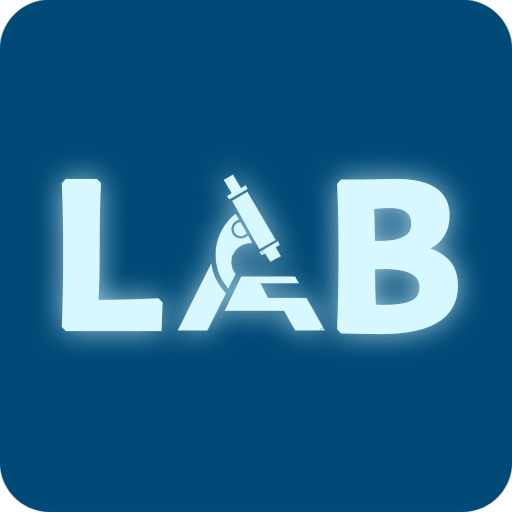
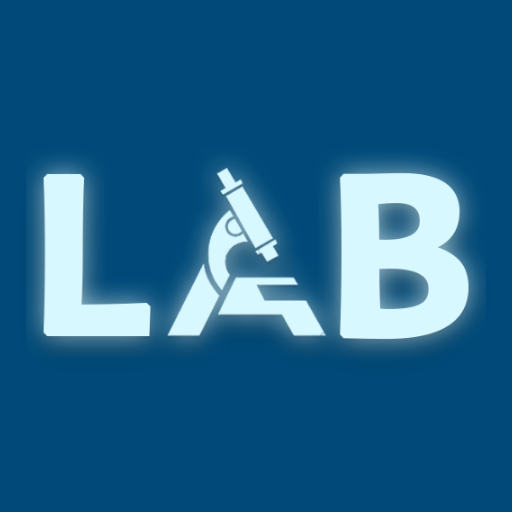
1.0.0v

diff --git a/settings.html b/settings.html
@@ -40,6 +40,17 @@ limitations under the License.
             transition: background-color 0.3s, color 0.3s;
         }
 
+        a:active,
+        a:focus,
+        a:hover {
+            -webkit-tap-highlight-color: transparent;
+            outline: none;
+            -webkit-user-select: none;
+            -moz-user-select: none;
+            -ms-user-select: none;
+            user-select: none;
+        }
+
         .container {
             max-width: 600px;
             margin: auto;
@@ -76,6 +87,17 @@ limitations under the License.
             margin-bottom: 100px;
         }
 
+        a:active,
+        a:focus,
+        a:hover {
+            -webkit-tap-highlight-color: transparent;
+            outline: none;
+            -webkit-user-select: none;
+            -moz-user-select: none;
+            -ms-user-select: none;
+            user-select: none;
+        }
+
         .setting-item {
             margin: 20px 0;
             font-family: 'GraphikArabic', sans-serif;
@@ -98,7 +120,7 @@ limitations under the License.
             background-color: #055be6;
             border: 2px solid #0043af;
             border-radius: 7px;
-            margin-bottom: 560px;
+            margin-bottom: 610px;
         }
 
         select option {
@@ -112,6 +134,7 @@ limitations under the License.
             display: inline-block;
             width: 60px;
             height: 34px;
+            top: -18px;
         }
 
         .switch input {
@@ -269,15 +292,15 @@ limitations under the License.
                 .catch(err => console.error("خطا در ثبت Service Worker:", err));
         }
 
-document.getElementById('language-select').addEventListener('change', function () {
-    var selectedValue = this.value;
-    localStorage.setItem('language', selectedValue); // ذخیره زبان انتخابی
-    if (selectedValue === 'en') {
-        window.location.href = 'settings'; 
-    } else if (selectedValue === 'fa') {
-        window.location.href = './Fa/settings'; 
-    }
-});
+        document.getElementById('language-select').addEventListener('change', function () {
+            var selectedValue = this.value;
+            localStorage.setItem('language', selectedValue); // ذخیره زبان انتخابی
+            if (selectedValue === 'en') {
+                window.location.href = 'settings';
+            } else if (selectedValue === 'fa') {
+                window.location.href = './Fa/settings';
+            }
+        });
     </script>
 </body>
 

diff --git a/Fa/settings.html b/Fa/settings.html
@@ -40,6 +40,17 @@ limitations under the License.
             transition: background-color 0.3s, color 0.3s;
         }
 
+        a:active,
+        a:focus,
+        a:hover {
+            -webkit-tap-highlight-color: transparent;
+            outline: none;
+            -webkit-user-select: none;
+            -moz-user-select: none;
+            -ms-user-select: none;
+            user-select: none;
+        }
+
         .container {
             max-width: 600px;
             margin: auto;
@@ -76,6 +87,17 @@ limitations under the License.
             margin-bottom: 100px;
         }
 
+        a:active,
+        a:focus,
+        a:hover {
+            -webkit-tap-highlight-color: transparent;
+            outline: none;
+            -webkit-user-select: none;
+            -moz-user-select: none;
+            -ms-user-select: none;
+            user-select: none;
+        }
+
         .setting-item {
             margin: 20px 0;
             font-family: 'GraphikArabic', sans-serif;
@@ -98,7 +120,7 @@ limitations under the License.
             background-color: #055be6;
             border: 2px solid #0043af;
             border-radius: 7px;
-            margin-bottom: 560px;
+            margin-bottom: 590px;
         }
 
         select option {
@@ -112,6 +134,7 @@ limitations under the License.
             display: inline-block;
             width: 60px;
             height: 34px;
+            top: -18px;
         }
 
         .switch input {
@@ -269,15 +292,15 @@ limitations under the License.
                 .catch(err => console.error("خطا در ثبت Service Worker:", err));
         }
 
-document.getElementById('language-select').addEventListener('change', function () {
-    var selectedValue = this.value;
-    localStorage.setItem('language', selectedValue); // ذخیره زبان انتخابی
-    if (selectedValue === 'en') {
-        window.location.href = '../settings'; 
-    } else if (selectedValue === 'fa') {
-        window.location.href = 'settings'; 
-    }
-});
+        document.getElementById('language-select').addEventListener('change', function () {
+            var selectedValue = this.value;
+            localStorage.setItem('language', selectedValue); // ذخیره زبان انتخابی
+            if (selectedValue === 'en') {
+                window.location.href = '../settings';
+            } else if (selectedValue === 'fa') {
+                window.location.href = 'settings';
+            }
+        });
     </script>
 </body>
 

diff --git a/About.html b/About.html
@@ -40,6 +40,17 @@ limitations under the License.
             transition: background-color 0.3s, color 0.3s;
         }
 
+        a:active,
+        a:focus,
+        a:hover {
+            -webkit-tap-highlight-color: transparent;
+            outline: none;
+            -webkit-user-select: none;
+            -moz-user-select: none;
+            -ms-user-select: none;
+            user-select: none;
+        }
+
         .container {
             max-width: 600px;
             margin: auto;
@@ -76,6 +87,17 @@ limitations under the License.
             margin-bottom: 100px;
         }
 
+        a:active,
+        a:focus,
+        a:hover {
+            -webkit-tap-highlight-color: transparent;
+            outline: none;
+            -webkit-user-select: none;
+            -moz-user-select: none;
+            -ms-user-select: none;
+            user-select: none;
+        }
+
         .main-buttons {
             display: flex;
             flex-direction: column;
@@ -99,7 +121,7 @@ limitations under the License.
             align-items: center;
             background-color: #055be6;
             border-radius: 10px;
-            box-shadow: 0 6px 8px rgba(0, 0, 0, 0.2);
+            box-shadow: 0 3px 0 rgb(4, 75, 190), 0 -3px 0 rgb(19, 110, 255);
             gap: 12px;
         }
 
@@ -157,7 +179,7 @@ limitations under the License.
         .light-theme .main-buttons a {
             color: #2b2b2b !important;
             background-color: #26a4da !important;
-            box-shadow: 0 6px 8px rgba(0, 0, 0, 0.2) !important;
+            box-shadow: 0 3px 0 rgb(31, 137, 182), 0 -3px 0 rgb(51, 194, 255) !important;
         }
 
         .light-theme .git-logo.inverted {

diff --git a/Fa/About.html b/Fa/About.html
@@ -40,6 +40,17 @@ limitations under the License.
             transition: background-color 0.3s, color 0.3s;
         }
 
+        a:active,
+        a:focus,
+        a:hover {
+            -webkit-tap-highlight-color: transparent;
+            outline: none;
+            -webkit-user-select: none;
+            -moz-user-select: none;
+            -ms-user-select: none;
+            user-select: none;
+        }
+
         .container {
             max-width: 600px;
             margin: auto;
@@ -76,6 +87,17 @@ limitations under the License.
             margin-bottom: 100px;
         }
 
+        a:active,
+        a:focus,
+        a:hover {
+            -webkit-tap-highlight-color: transparent;
+            outline: none;
+            -webkit-user-select: none;
+            -moz-user-select: none;
+            -ms-user-select: none;
+            user-select: none;
+        }
+
         .main-buttons {
             display: flex;
             flex-direction: column;
@@ -99,7 +121,7 @@ limitations under the License.
             align-items: center;
             background-color: #055be6;
             border-radius: 10px;
-            box-shadow: 0 6px 8px rgba(0, 0, 0, 0.2);
+            box-shadow: 0 3px 0 rgb(4, 75, 190), 0 -3px 0 rgb(19, 110, 255);
             gap: 12px;
         }
 
@@ -167,7 +189,7 @@ limitations under the License.
         .light-theme .main-buttons a {
             color: #2b2b2b !important;
             background-color: #26a4da !important;
-            box-shadow: 0 6px 8px rgba(0, 0, 0, 0.2) !important;
+            box-shadow: 0 3px 0 rgb(31, 137, 182), 0 -3px 0 rgb(51, 194, 255) !important;
         }
 
         .light-theme .git-logo.inverted {

diff --git a/Fa/index.html b/Fa/index.html
@@ -21,11 +21,11 @@ limitations under the License.
     <meta name="viewport" content="width=device-width, initial-scale=1.0">
     <meta name="google-site-verification" content="KcY0gM8bM-wyo_GUkoFD4oRRAYoqlc7LQfa4rveRlYQ" />
     <title>آزمایشگاه شیمی</title>
-    <link rel="icon" href="../Chemistry-Lab-icon-512x512.png" type="image/png">
+    <link rel="icon" href="../icon.png" type="image/png">
     <meta name="theme-color" content="#0f172a">
     <link rel="manifest" href="../manifest.json">
     <link type="text/css" rel="stylesheet" href="../css/font.css">
-    <link type="text/css" rel="stylesheet" href="../css/index.css">
+    <link type="text/css" rel="stylesheet" href="../css/index-Fa.css">
     <meta name="apple-mobile-web-app-capable" content="yes">
     <meta name="apple-mobile-web-app-status-bar-style" content="black-translucent">
     <meta name="msapplication-navbutton-color" content="#0f172a">

diff --git a/Atom-Lab/Fa/index.html b/Atom-Lab/Fa/index.html
@@ -25,7 +25,7 @@ limitations under the License.
     <meta name="theme-color" content="#0f172a">
     <link rel="manifest" href="../../manifest.json">
     <link type="text/css" rel="stylesheet" href="../css/font.css">
-    <link type="text/css" rel="stylesheet" href="../css/index.css">
+    <link type="text/css" rel="stylesheet" href="../css/index-Fa.css">
     <meta name="apple-mobile-web-app-capable" content="yes">
     <meta name="apple-mobile-web-app-status-bar-style" content="black-translucent">
     <meta name="msapplication-navbutton-color" content="#0f172a">

diff --git a/css/index-Fa.css b/css/index-Fa.css
@@ -24,6 +24,18 @@ body {
     padding: 20px;
     text-align: right;
 }
+
+a:active,
+a:focus,
+a:hover {
+    -webkit-tap-highlight-color: transparent;
+    outline: none;
+    -webkit-user-select: none;
+    -moz-user-select: none;
+    -ms-user-select: none;
+    user-select: none;
+}
+
 .container {
 max-width: 600px;
 margin: auto;
@@ -76,7 +88,7 @@ position: relative;
 .main-button-bottom {
     text-decoration: none;
     margin-top: 20px;
-    margin-bottom: 380px;
+    margin-bottom: 365px;
     width: 250px;
     height: 60px;
     font-size: 20px;

diff --git a/index.html b/index.html
@@ -22,7 +22,7 @@ limitations under the License.
     <meta name="viewport" content="width=device-width, initial-scale=1.0">
     <meta name="google-site-verification" content="KcY0gM8bM-wyo_GUkoFD4oRRAYoqlc7LQfa4rveRlYQ" />
     <title>Chemistry Lab</title>
-    <link rel="icon" href="Chemistry-Lab-icon-512x512.png" type="image/png">
+    <link rel="icon" href="icon.png" type="image/png">
     <meta name="theme-color" content="#0f172a">
     <link rel="manifest" href="manifest.json">
     <link type="text/css" rel="stylesheet" href="css/font.css">

diff --git a/Atom-Lab/css/index-Fa.css b/Atom-Lab/css/index-Fa.css
@@ -288,13 +288,6 @@ input[type=number] {
     /* تغییر رنگ placeholder */
 }
 
-@media (max-width: 767px) {
-   .search-container ::placeholder {
-        font-size: 9.3px;
-		margin-right: -10px;
-    }
-}
-
 input[type=text] {
     font-family: 'GraphikArabic', sans-serif;
     font-size: 14px;
